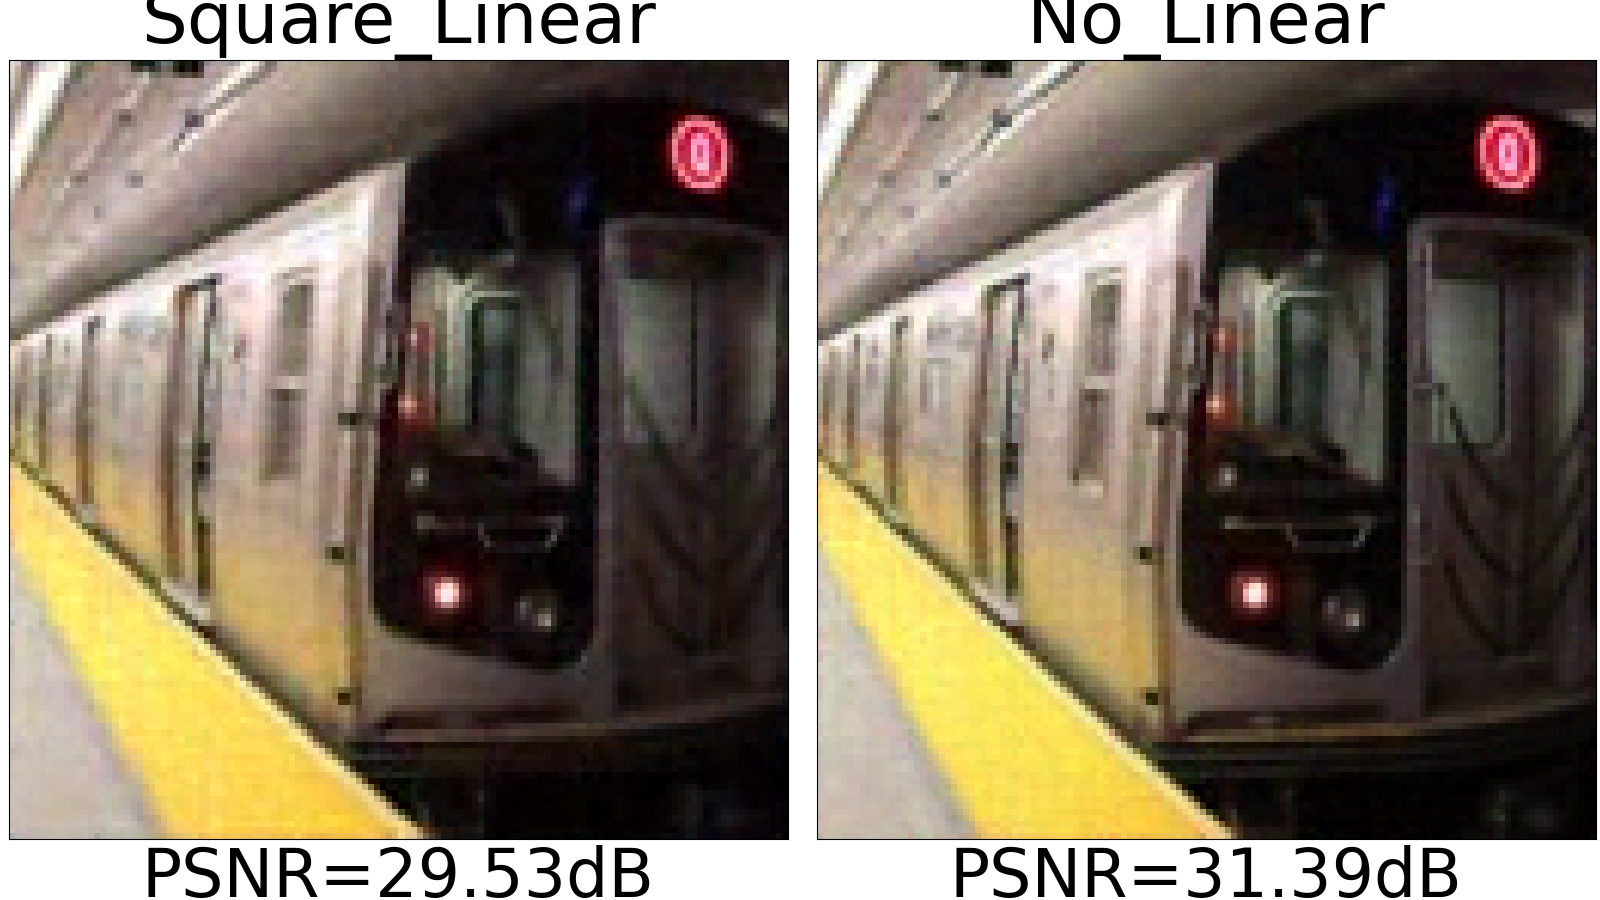
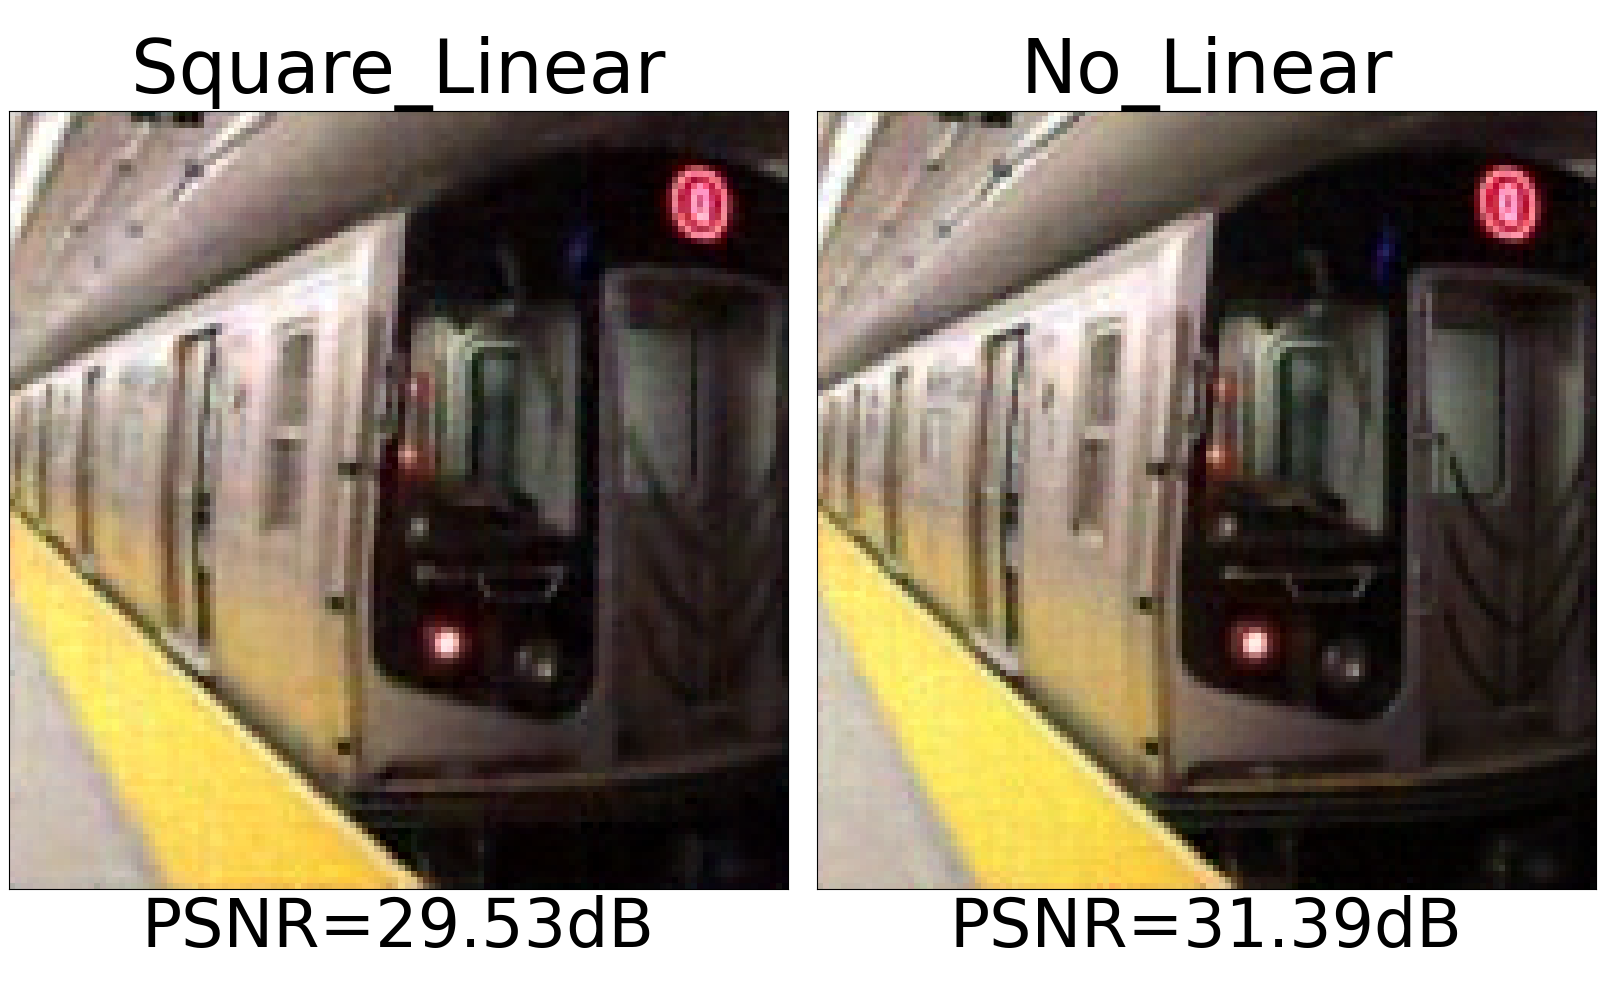
- Edit fontsizes for square_linear comparison - Recreate square_linear comparison images

diff --git a/figures.py b/figures.py
@@ -114,14 +114,14 @@ def side_by_side_8192(img_fp):
 
     fig, axes = plt.subplots(1,
                              2,
-                             figsize=(16, 9),
+                             figsize=(16, 10),
                              gridspec_kw={
                                  'wspace': 0,
                                  'hspace': 0.13
                              },
                              constrained_layout=True)
 
-    axes[0].set_title('Square_Linear', fontsize=52)
+    axes[0].set_title('Square_Linear', fontsize=54)
     x_hat_1, _, psnr_gan_1 = compress(torch_img,
                                       skip_linear_layer=True,
                                       no_linear_layer=False,
@@ -134,7 +134,7 @@ def side_by_side_8192(img_fp):
     axes[0].set_xticks([])
     axes[0].set_yticks([])
 
-    axes[1].set_title('No_Linear', fontsize=52)
+    axes[1].set_title('No_Linear', fontsize=54)
     x_hat_2, _, psnr_gan_2 = compress(torch_img,
                                       skip_linear_layer=True,
                                       no_linear_layer=True,

diff --git a/compress.py b/compress.py
@@ -48,7 +48,6 @@ def compress(img,
              compressive_sensing=False,
              n_measurements=4000,
              n_steps=5000,
-             n_measurements=5000,
              gen_ckpt=DEFAULT_GEN_CKPT,
              latent_dim=GEN_LATENT_DIM):
     """
